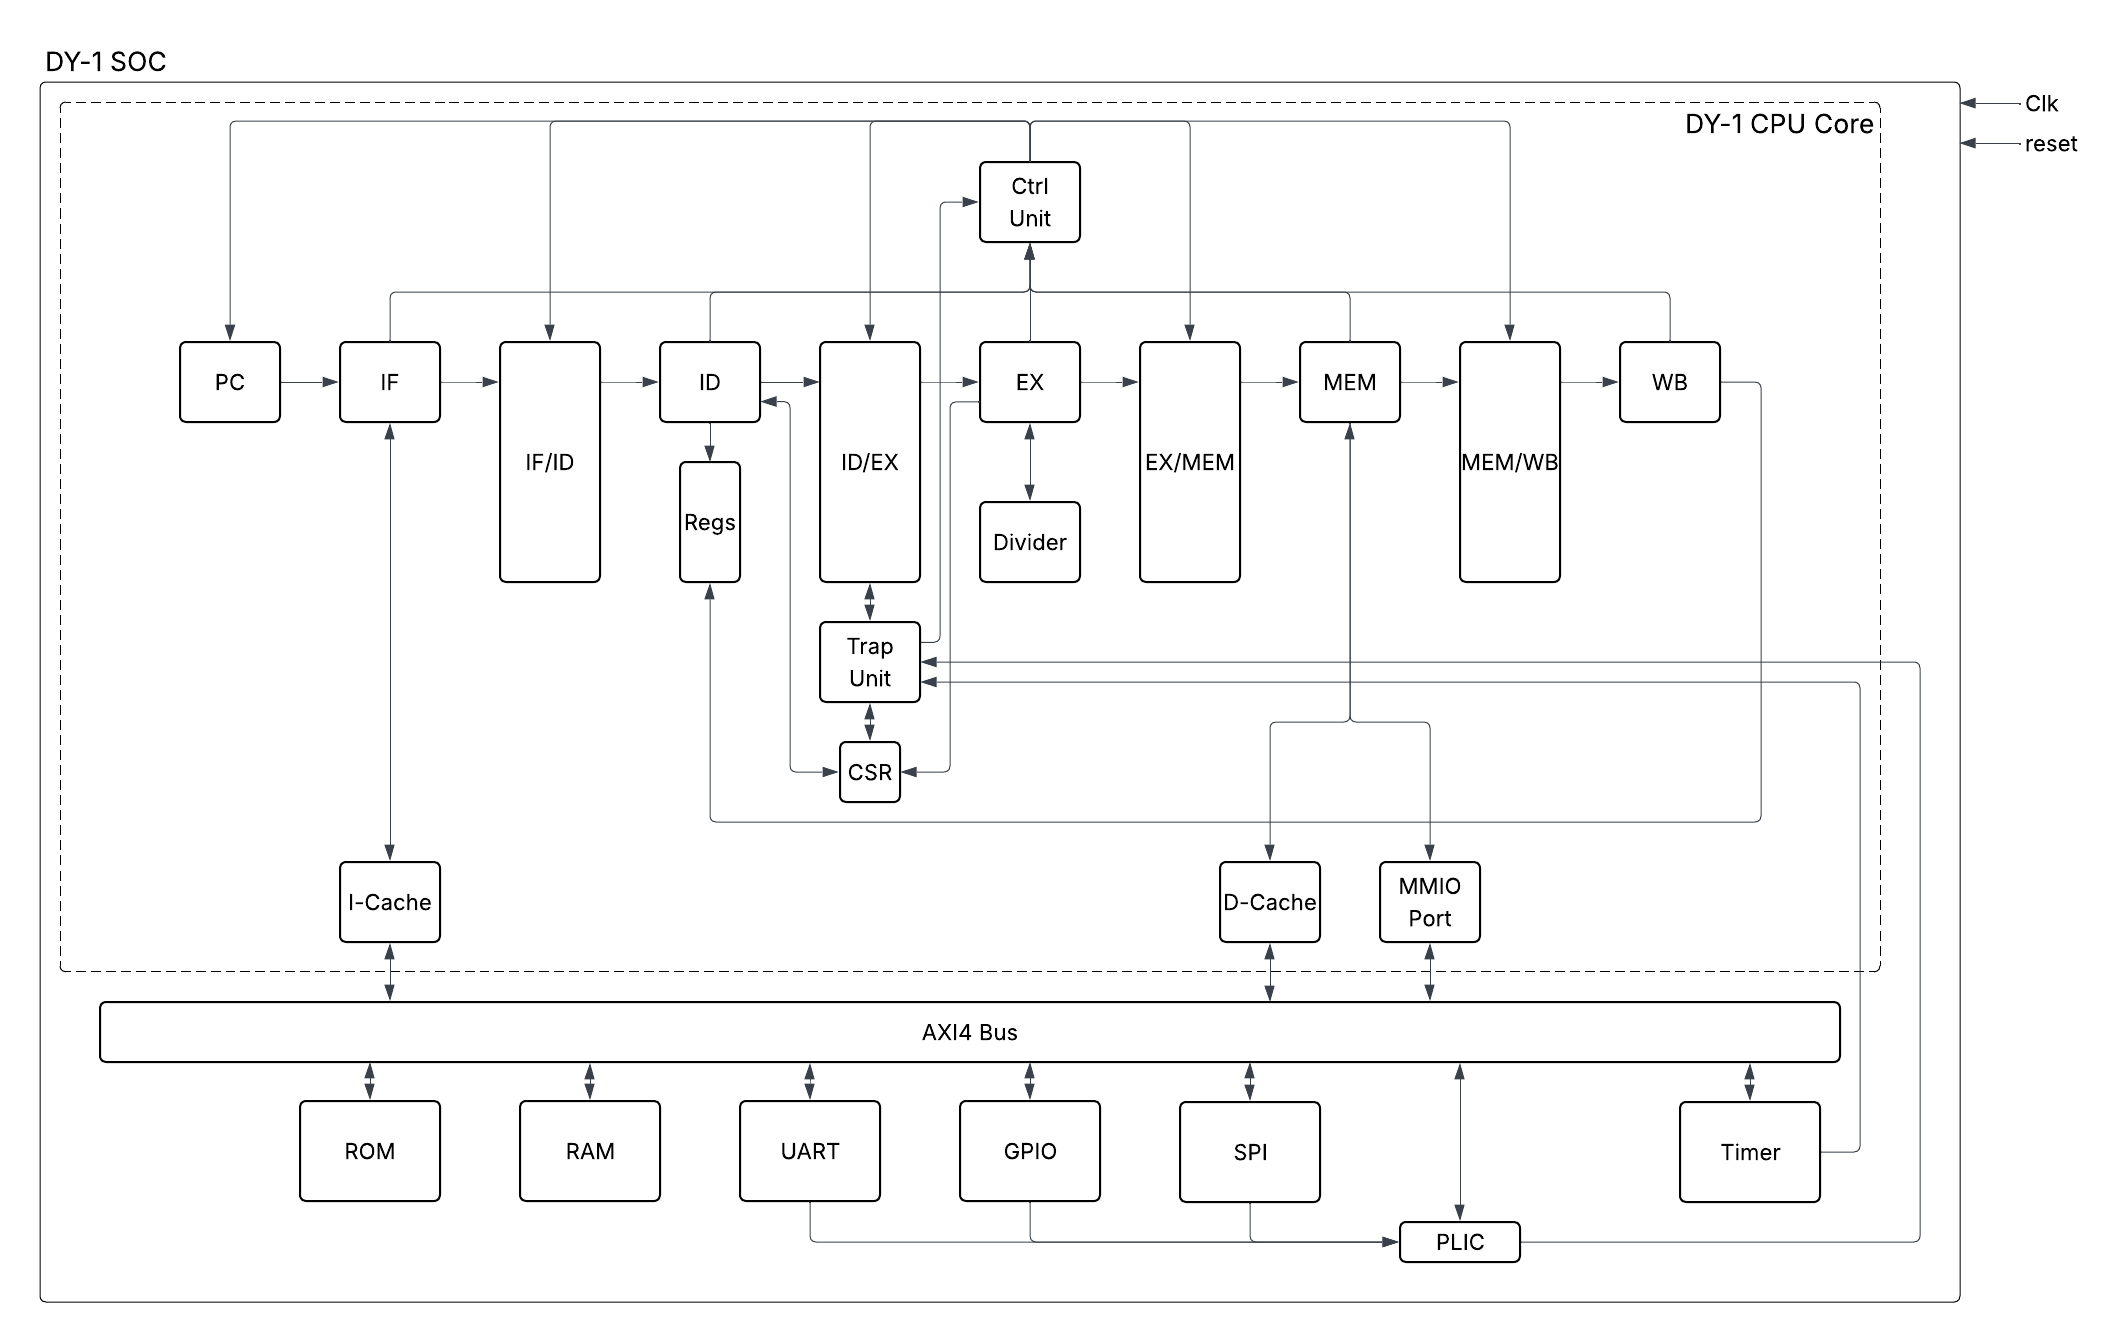
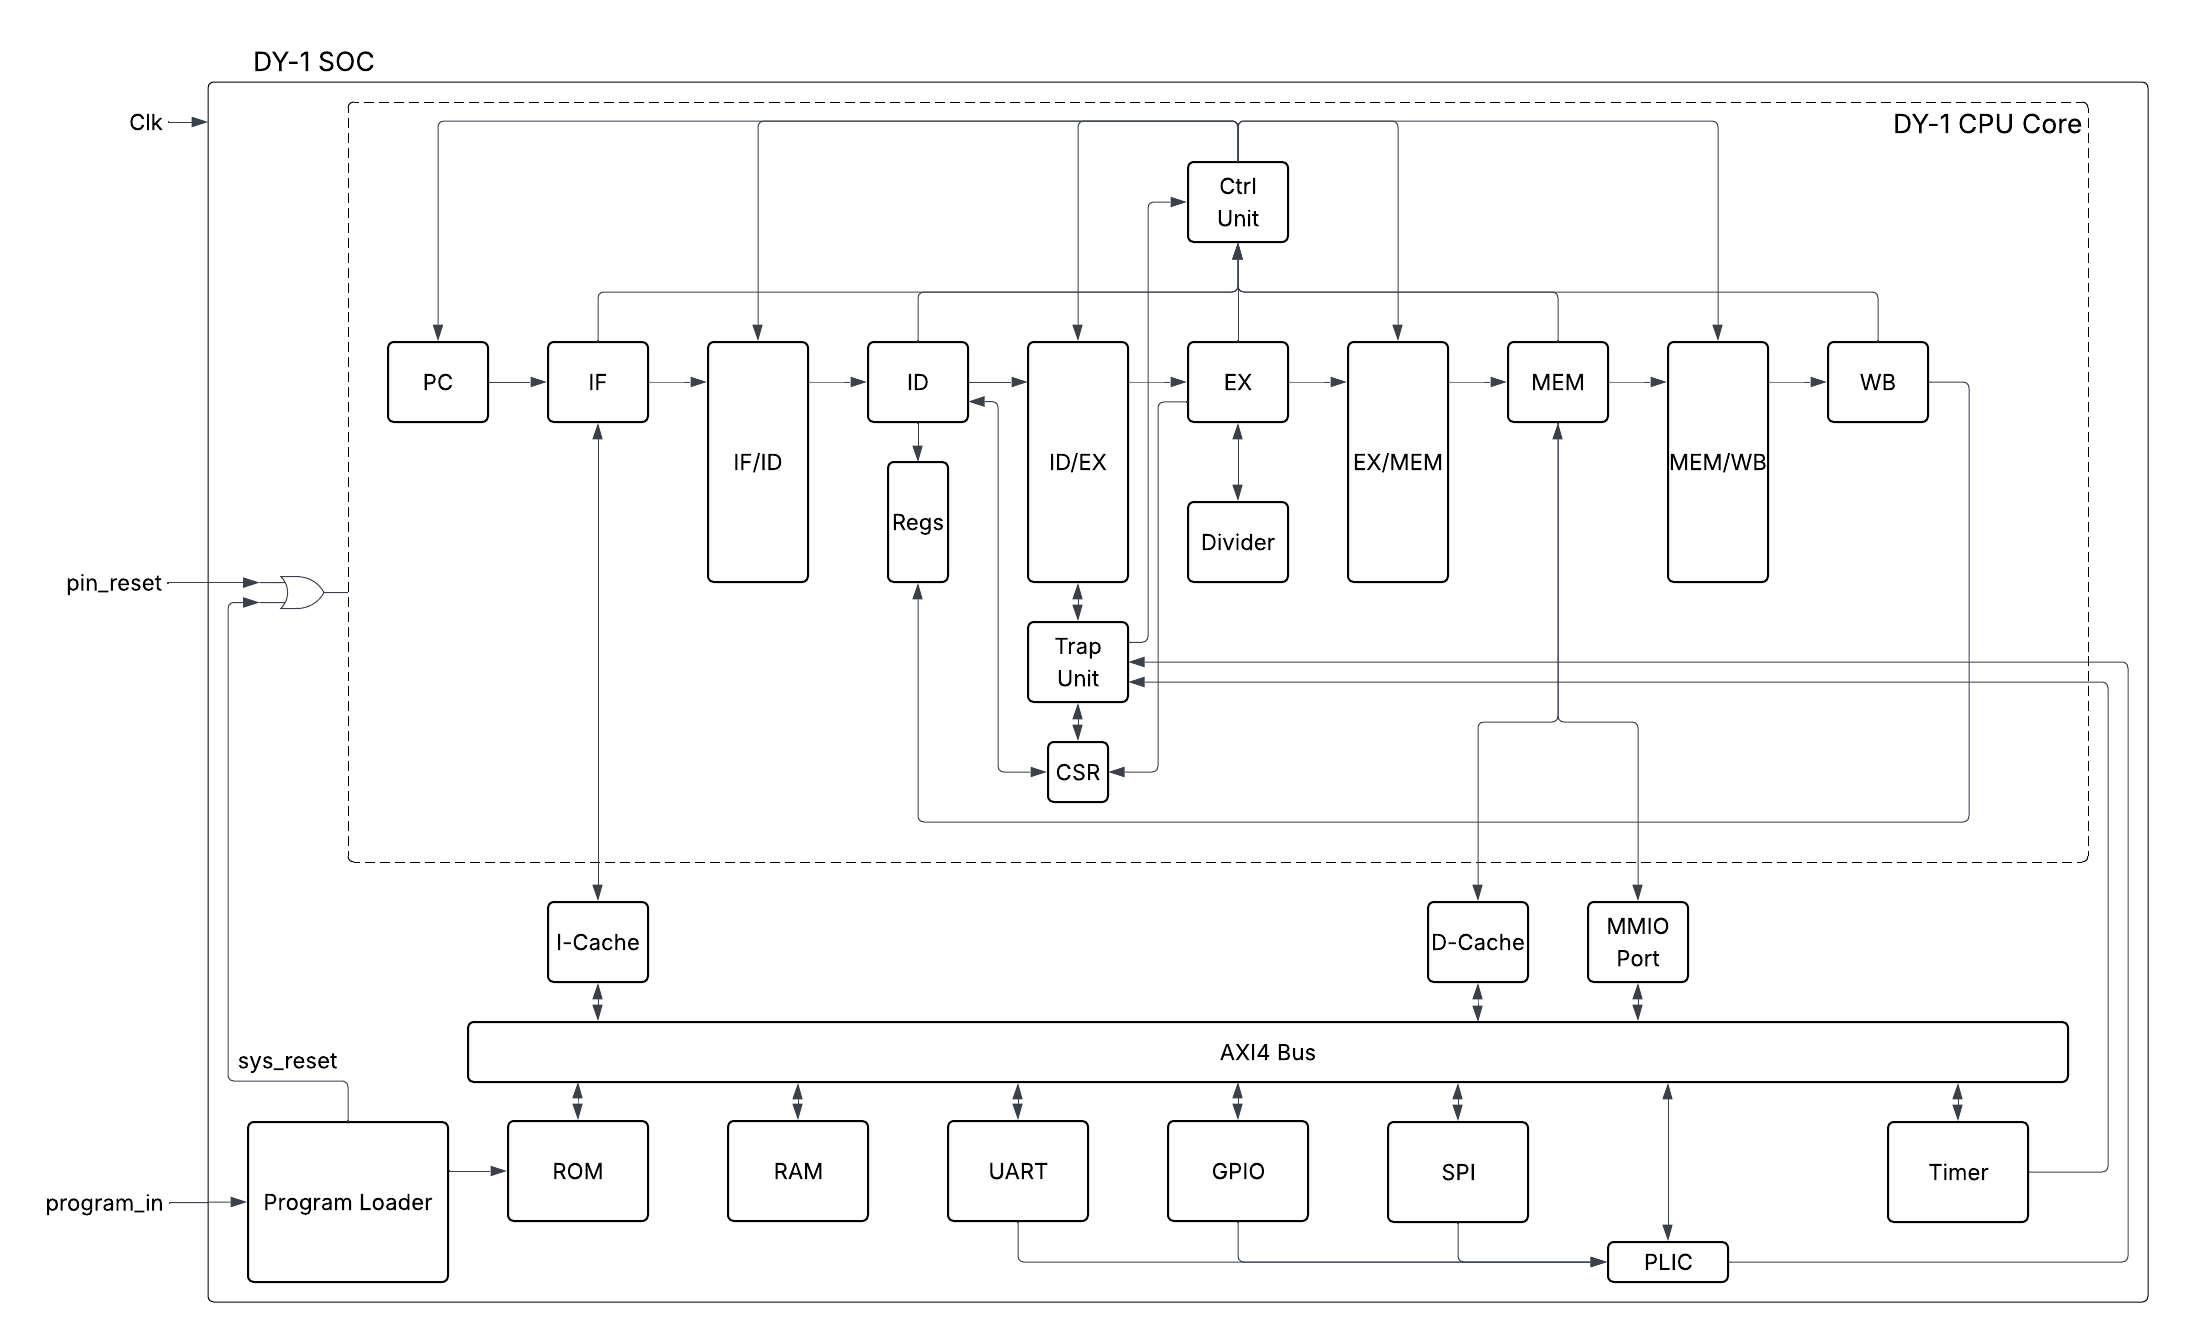
update README

diff --git a/README.md b/README.md
@@ -21,7 +21,7 @@ Requires `riscv-none-elf-gcc`. Output lands in `test/test_full/mem/`.
 3. Run simulation
 
 ## Deploying on FPGA
-[Placeholder — timing, resource utilization, target board]
+[Placeholder — zynq core bd tcl, project tcl, target board (tested: pynq-z2; plan: artix-7, kria kv260)]
 
 ## Performance
 [Placeholder — Add after Coremark test]
@@ -31,9 +31,10 @@ Requires `riscv-none-elf-gcc`. Output lands in `test/test_full/mem/`.
 3. Full SoC, assembly tests passing with new bus/cache (✓)
 4. UART, GPIO, CLINT timer (✓)
 5. FPGA synthesis, timing closure, blink/uart hello world (✓)
-6. C toolchain bring-up, printf, basic programs
-7. Running Coremark performance check
+6. Program loader
+7. C toolchain bring-up, printf, basic programs
+8. Running Coremark performance check
 ---
-8. SPI/JTAG programmer; support in-system programming
-9. DMA (software-managed flush + non-cacheable region)
-10. Running RTOS
+9. SPI/JTAG programmer; support in-system programming
+10. DMA (software-managed flush + non-cacheable region)
+11. Running RTOS